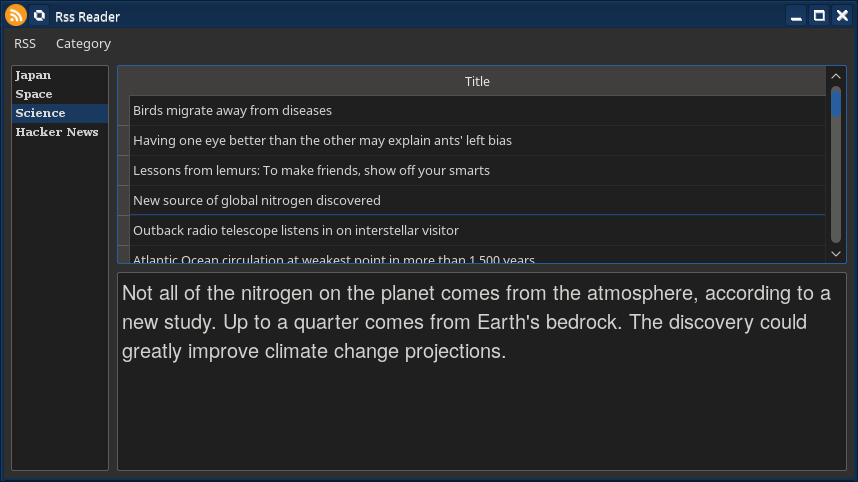
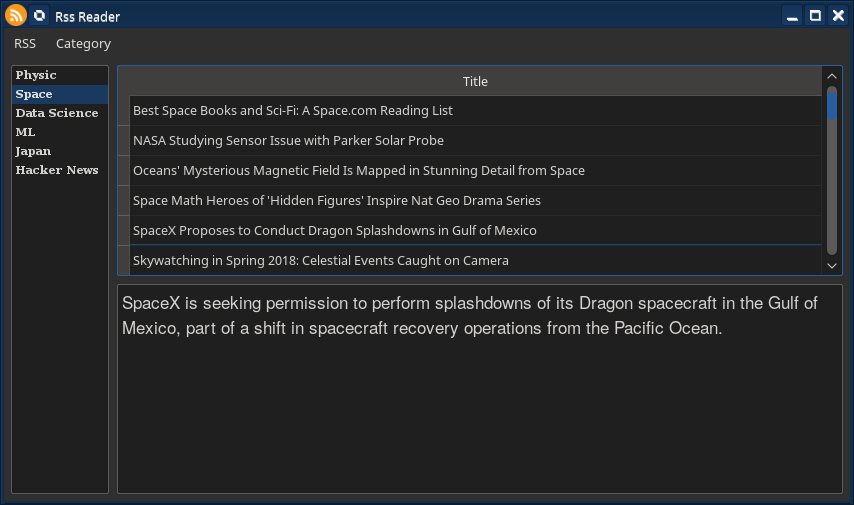
Confirm delete dialog

Changed region(s): [[0.0, 0.0, 1.0, 0.6846], [0.1218, 0.7158, 0.5785, 0.778], [0.9133, 0.0, 1.0, 0.0622]]

diff --git a/RssNews/python/gui.py b/RssNews/python/gui.py
@@ -11,6 +11,7 @@ class RSSModel(QtCore.QAbstractTableModel):
         self.data = data
 
     def rowCount(self, parent=QtCore.QModelIndex(), *args, **kwargs):
+        self.data = list(filter(None, self.data))
         return len(self.data)
 
     def columnCount(self, parent=QtCore.QModelIndex(), *args, **kwargs):
@@ -65,7 +66,7 @@ class RssWidget(QtWidgets.QWidget):
         self.description.setOpenExternalLinks(True)
         self.description.setReadOnly(True)
         self.description.setPlaceholderText("RSS Description")
-        self.description.setFontPointSize(15)
+        self.description.setFontPointSize(13)
         self.description.setFont(QtGui.QFont("Helvetica"))
         self.description.setLineWidth(2)
         self.description.acceptRichText()
@@ -84,7 +85,7 @@ class RssWidget(QtWidgets.QWidget):
         main_layout.addLayout(content_layout)
 
         self.setLayout(main_layout)
-
+            
     def show_rss_titles_from_categories(self, data):
         content = data.text()
         titles = list(rss_contents[content].keys())
@@ -166,10 +167,18 @@ class MainWindow(QtWidgets.QMainWindow):
         if not selected:
             return    
 
-        rss.pop(selected[0].text(), None)
+        confirm_delete = QtWidgets.QMessageBox()   
+        confirm_delete.setText("Delete " + selected[0].text() + "?")
+        confirm_delete.setWindowTitle("Remove RSS")
+        confirm_delete.setStandardButtons(QtWidgets.QMessageBox.Ok | QtWidgets.QMessageBox.Cancel)
+        
+        decision = confirm_delete.exec_()
 
-        for item in selected:
-            self.rss_widget.categories.takeItem(self.rss_widget.categories.row(item))
+        if decision == QtWidgets.QMessageBox.Ok:
+            rss.pop(selected[0].text(), None)
+
+            for item in selected:
+                self.rss_widget.categories.takeItem(self.rss_widget.categories.row(item))
 
     def quit(self):
         QtWidgets.QApplication.quit()
@@ -197,9 +206,6 @@ class MainWindow(QtWidgets.QMainWindow):
 
             if not url or not category:
                 return
-
-            if "https://" not in url:
-                url = "https://" + url
 
             if url not in rss.keys() and category not in rss.keys():
                 rss[category] = url
